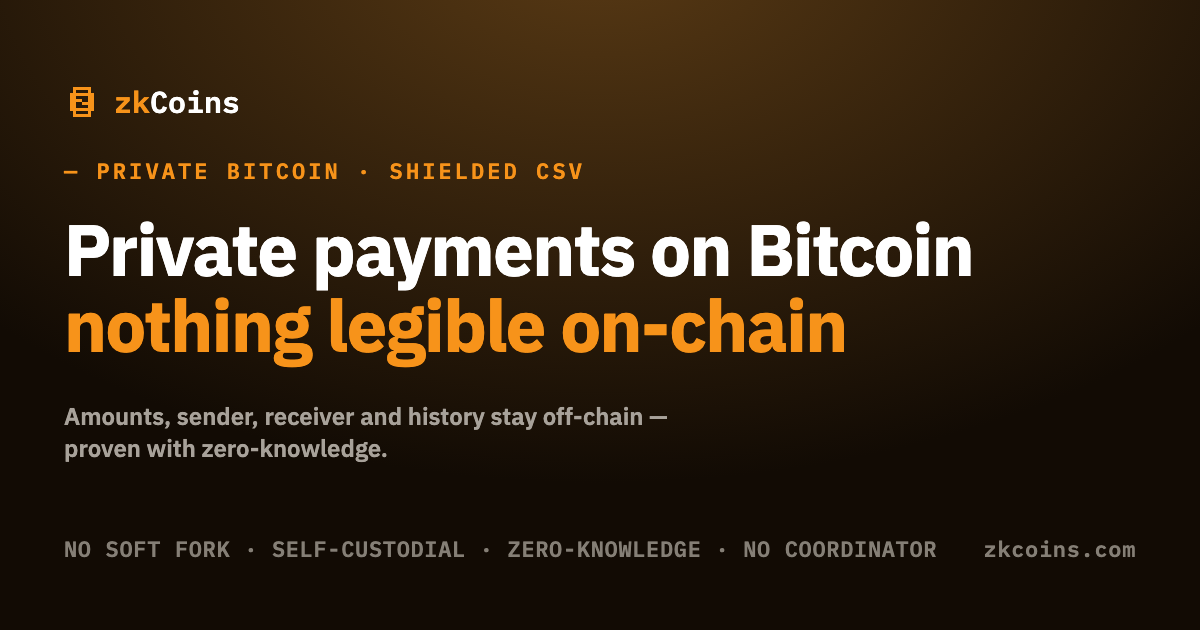
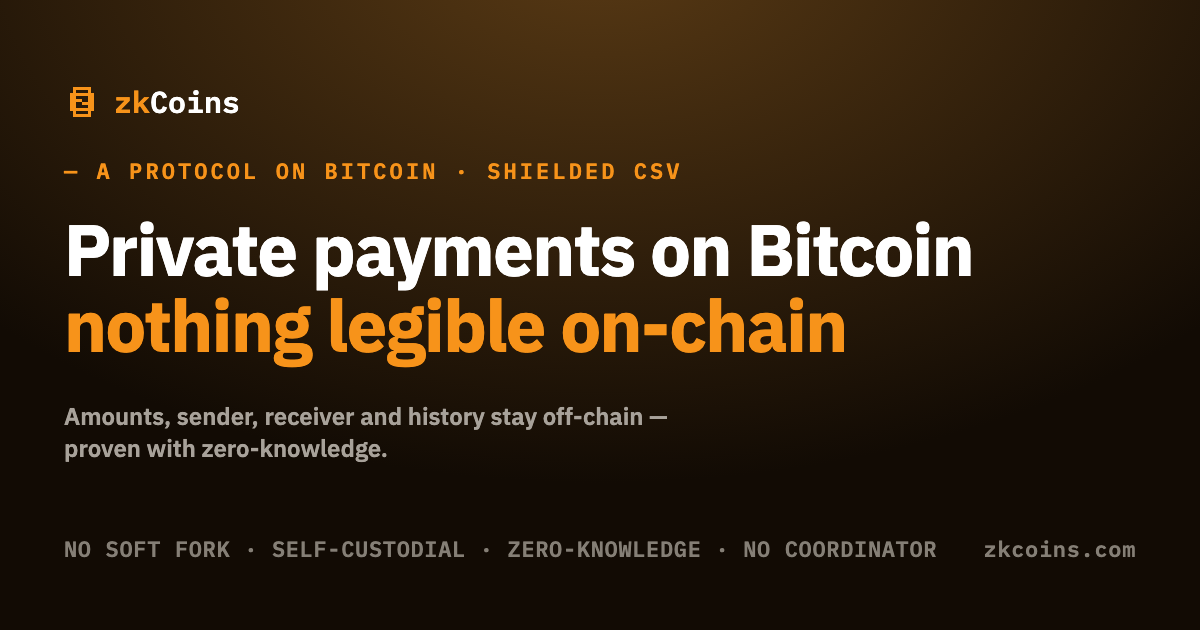
Correct the claim in the card's eyebrow
The eyebrow read "PRIVATE BITCOIN". zkCoins is not a private kind of bitcoin --
docs/intro.md describes it as "a protocol and system -- node, wallet, and
explorer -- realizing Shielded CSV, which brings true privacy to Bitcoin". Two
things are wrong in those three words: the subject is a protocol running on
Bitcoin, and Shielded CSV is what that protocol realizes rather than a second
thing standing beside it. It now reads "A PROTOCOL ON BITCOIN - SHIELDED CSV",
and og.png is re-rendered from the corrected source.

The wording was not invented for the card. It was copied from the site's own
hero_eyebrow and never checked against the documentation -- the same shortcut
that put it on the page. The site's tagline is "Private Bitcoin transactions via
Shielded CSV", where the transactions are what is private; 29 strings across the
five locale files shorten that to a noun. They are untouched here, because
changing them changes how the project describes itself and that is not a
decision to make inside a card commit.

The logo now carries a note on where it comes from. Its rectangles are copied
verbatim from brand/logo/svg/zkcoins-symbol.svg -- all sixteen coordinates match
-- and the order of rows five and six is what distinguishes the Z from the
obsolete mirrored reading, so redrawing it silently flips the mark. Nothing
recorded that until now.

Re-measured on the rendered card: 1200x630, no overflow, nothing closer than
[…]

Changed region(s): [[0.0925, 0.2413, 0.555, 0.3016]]

diff --git a/assets/og-card.html b/assets/og-card.html
@@ -143,6 +143,8 @@
 <body>
   <div class="card">
     <div class="brand">
+      <!-- Rect sequence copied verbatim, not redrawn, from brand/logo/svg/zkcoins-symbol.svg.
+           The order of rows 5 and 6 distinguishes the Z from the obsolete mirrored S; preserve it when editing. -->
       <svg class="brand-logo" xmlns="http://www.w3.org/2000/svg" width="36" height="36" viewBox="0 0 12 12" shape-rendering="crispEdges" fill="currentColor" aria-hidden="true">
         <rect x="3" y="1" width="6" height="1"/><rect x="3" y="2" width="1" height="1"/><rect x="8" y="2" width="1" height="1"/>
         <rect x="2" y="3" width="8" height="1"/><rect x="2" y="4" width="2" height="1"/><rect x="8" y="4" width="2" height="1"/>
@@ -155,7 +157,7 @@
       <div class="wordmark"><span class="wordmark-zk">zk</span><span class="wordmark-coins">Coins</span></div>
     </div>
 
-    <div class="eyebrow"><span>—</span> PRIVATE BITCOIN · SHIELDED CSV</div>
+    <div class="eyebrow"><span>—</span> A PROTOCOL ON BITCOIN · SHIELDED CSV</div>
 
     <div class="headline">
       <div class="headline-line headline-primary">Private payments on Bitcoin</div>
